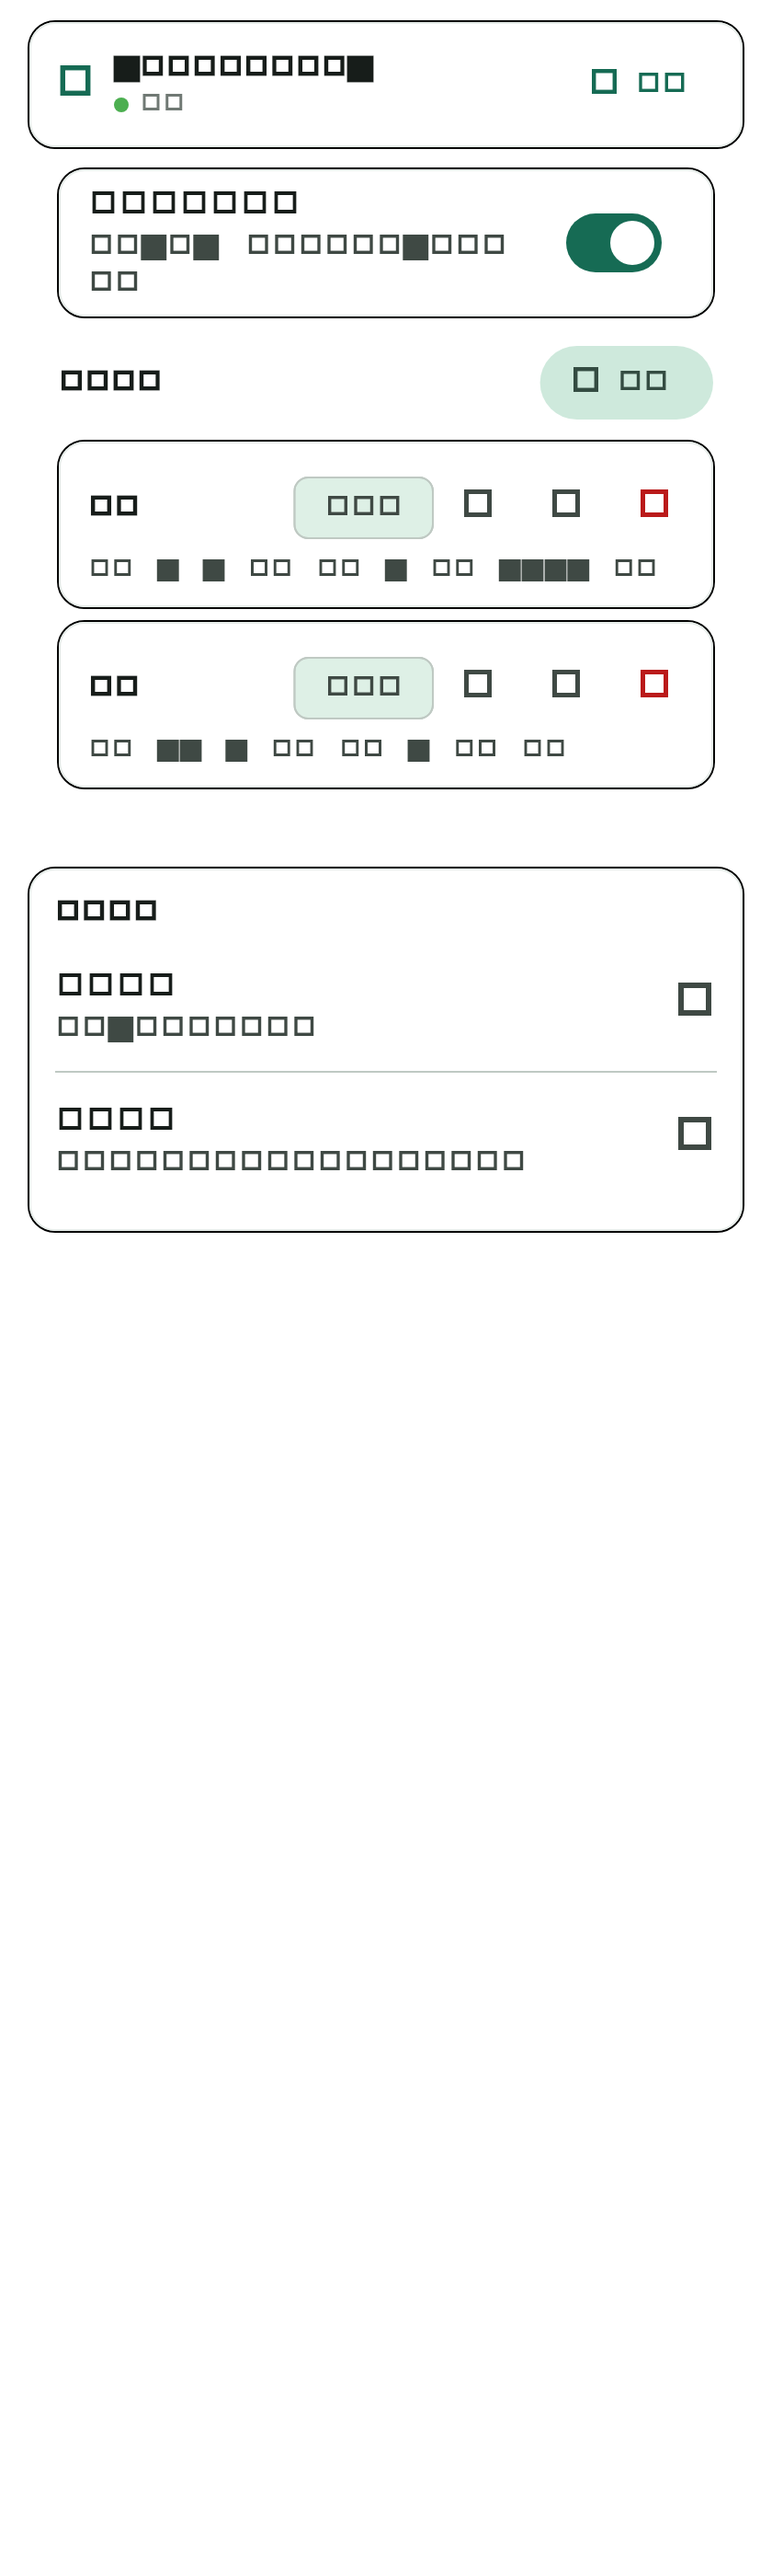
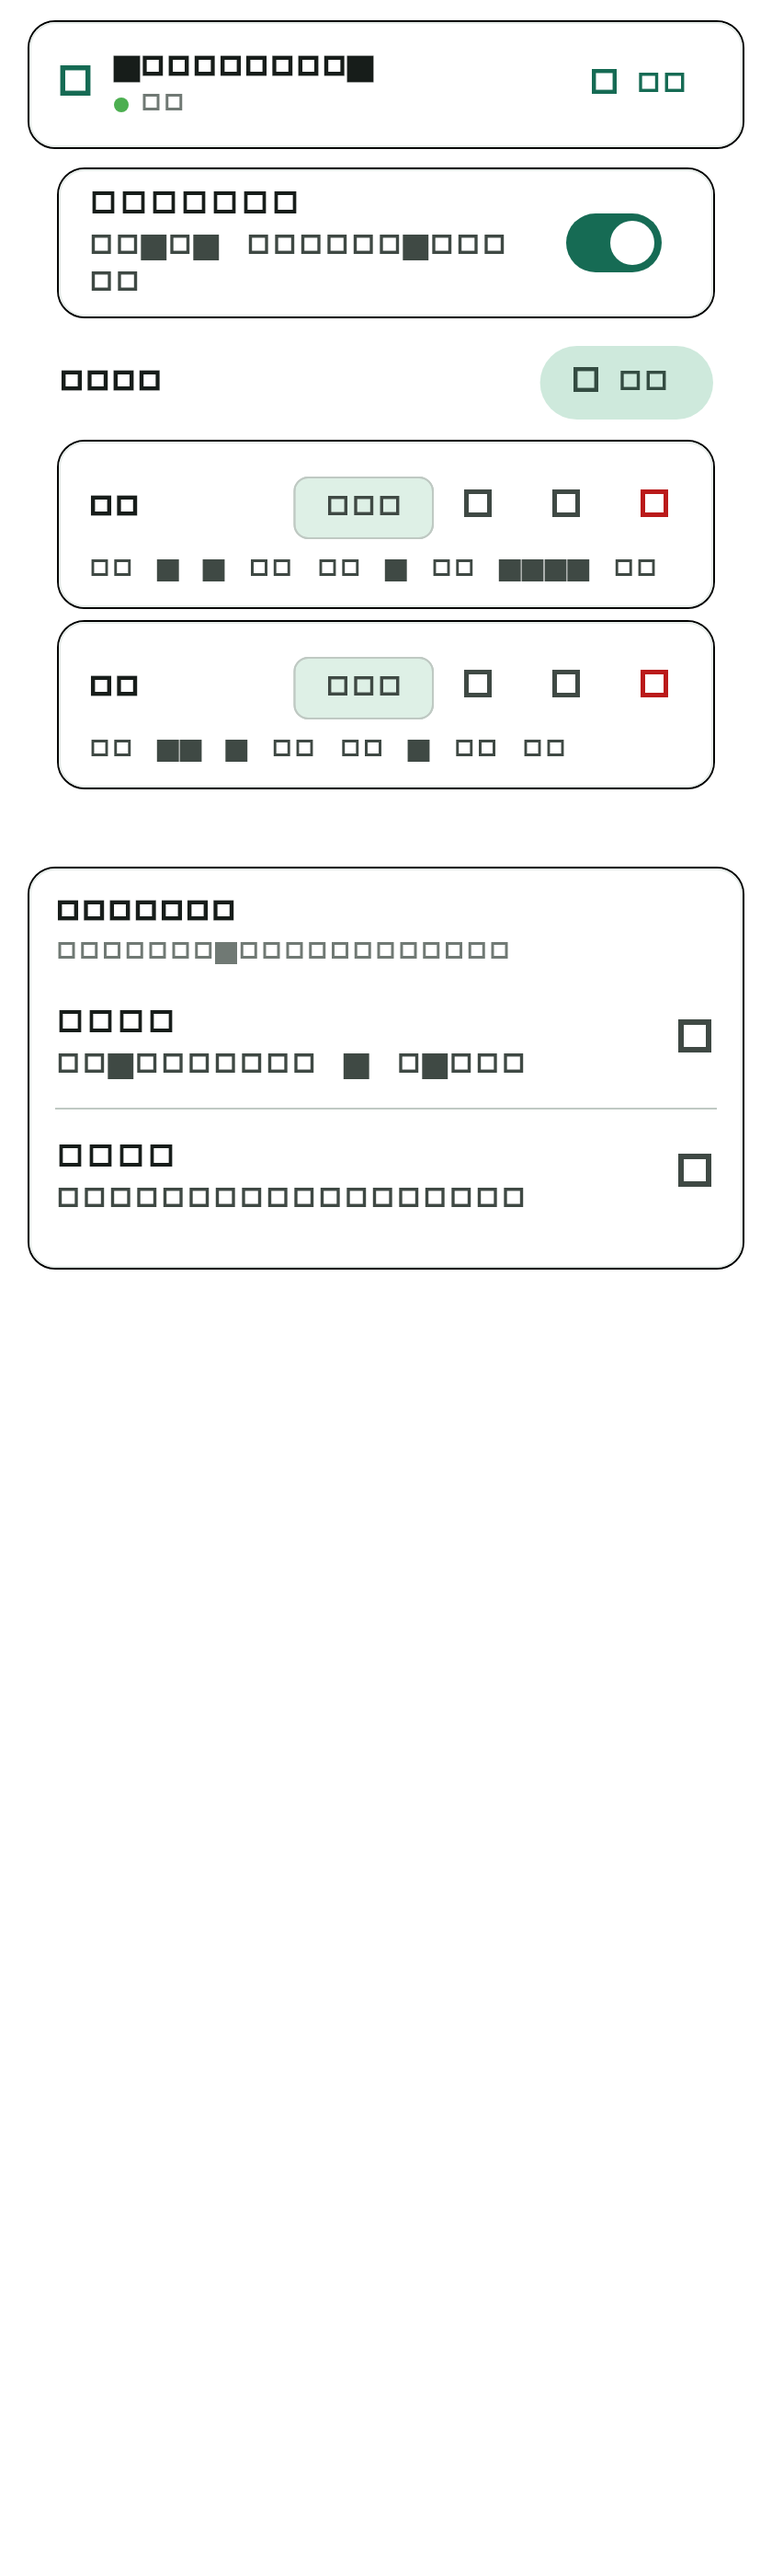
fix: 家庭三态收口 - 未分配时不显示卡片，有效.env家庭名后台失败仍fallback

Changed region(s): [[0.031, 0.3418, 0.681, 0.4971], [0.8667, 0.3729, 0.9286, 0.4661], [0.9286, 0.4661, 0.9595, 0.4971]]

diff --git a/pscreen_home/test/home_bloc_test.dart b/pscreen_home/test/home_bloc_test.dart
@@ -2138,68 +2138,143 @@ void main() {
     });
   });
 
-  group('HomeState 房间条回退（家庭名与区域前缀不一致）', () {
-    // HA 区域名无「家庭 」前缀（如「卧室 / 客厅」），家庭名解析为空串。
-    final HaRegistry noPrefixRegistry = HaRegistry(
+  group('HomeState 家庭三态（全部 / 已分配 / 未分配）', () {
+    // 带家庭前缀的区域：金科1204 有客厅+卧室，棠德304 有卧室。
+    final HaRegistry prefixedRegistry = HaRegistry(
       areas: <HaArea>[
-        const HaArea(areaId: 'bedroom', name: '卧室'),
-        const HaArea(areaId: 'living', name: '客厅'),
+        const HaArea(areaId: 'jk_kt', name: '金科1204 客厅'),
+        const HaArea(areaId: 'jk_ws', name: '金科1204 卧室'),
+        const HaArea(areaId: 'td_ws', name: '棠德304 卧室'),
       ],
       areaIdByEntity: <String, String>{
-        'light.bed': 'bedroom',
-        'light.living': 'living',
+        'light.jk_kt': 'jk_kt',
+        'light.jk_ws': 'jk_ws',
+        'light.td_ws': 'td_ws',
       },
     );
-    final Map<String, HaEntityStateModel> twoEntities = <String, HaEntityStateModel>{
-      'light.bed': _entity('light.bed', 'on'),
-      'light.living': _entity('light.living', 'on'),
+    final Map<String, HaEntityStateModel> threeEntities =
+        <String, HaEntityStateModel>{
+      'light.jk_kt': _entity('light.jk_kt', 'on'),
+      'light.jk_ws': _entity('light.jk_ws', 'on'),
+      'light.td_ws': _entity('light.td_ws', 'on'),
     };
 
-    test('白名单是与区域前缀不匹配的单个家庭名时，房间条回退显示全部房间', () {
+    // ---- 态一：全部家庭（allowedHomes 为空）----
+    test('全部家庭：家庭条、房间条、卡片都显示所有数据', () {
       final HomeState state = HomeState.initial().copyWith(
-        registry: noPrefixRegistry,
-        entities: twoEntities,
-        // 模拟 .env 里误把说明文字当家庭名，或后台只配了家庭但区域无前缀。
+        registry: prefixedRegistry,
+        entities: threeEntities,
+        allowedHomes: const <String>[],
+      );
+      expect(state.isHomeUnassigned, isFalse);
+      expect(state.availableHomes, <String>['金科1204', '棠德304']);
+      expect(state.visibleAreas, hasLength(3));
+      expect(state.deviceGroups, hasLength(3));
+    });
+
+    // ---- 态二：已分配（白名单在 HA 里匹配到家庭）----
+    test('已分配单家庭：隐藏家庭条但保留房间条，只显示该家庭卡片', () {
+      final HomeState state = HomeState.initial().copyWith(
+        registry: prefixedRegistry,
+        entities: threeEntities,
+        allowedHomes: const <String>['金科1204'],
+        selectedHomeName: '金科1204',
+      );
+      expect(state.isHomeUnassigned, isFalse);
+      expect(state.effectiveHomeName, '金科1204');
+      // 房间条：只包含该家庭的房间（用户核心诉求：单家庭也要能切房间）。
+      expect(state.visibleAreas.map((HaArea a) => a.areaId),
+          <String>['jk_kt', 'jk_ws']);
+      // 卡片：只显示该家庭的 2 张，棠德304 的被过滤。
+      expect(state.deviceGroups, hasLength(2));
+    });
+
+    test('已分配多家庭白名单：只显示白名单内家庭', () {
+      final HomeState state = HomeState.initial().copyWith(
+        registry: prefixedRegistry,
+        entities: threeEntities,
+        allowedHomes: const <String>['棠德304'],
+      );
+      expect(state.isHomeUnassigned, isFalse);
+      expect(state.visibleAreas.map((HaArea a) => a.areaId), <String>['td_ws']);
+      expect(state.deviceGroups, hasLength(1));
+    });
+
+    // ---- 态三：未分配（白名单非空，但 HA 里找不到任何匹配家庭）----
+    test('未分配（.env 占位文案）：卡片、房间条全空，isHomeUnassigned 为真', () {
+      final HomeState state = HomeState.initial().copyWith(
+        registry: prefixedRegistry,
+        entities: threeEntities,
         allowedHomes: const <String>['不默认显示任何家庭需要要后台设置'],
       );
-
-      expect(state.availableHomes, isEmpty,
-          reason: '区域名无空格前缀 → homeName 全为空');
-      expect(state.effectiveHomeName, isEmpty);
-      // 修复点：过滤无结果不应让房间条消失，而应回退全部房间。
-      expect(state.visibleAreas.map((HaArea a) => a.areaId),
-          <String>['bedroom', 'living']);
+      expect(state.isHomeUnassigned, isTrue);
+      expect(state.availableHomes, isEmpty);
+      expect(state.visibleAreas, isEmpty);
+      expect(state.deviceGroups, isEmpty);
+      expect(state.quickControls, isEmpty);
     });
 
-    test('白名单完全不匹配任何区域时房间条仍可用', () {
-      final HomeState state = HomeState.initial().copyWith(
-        registry: noPrefixRegistry,
-        entities: twoEntities,
-        allowedHomes: const <String>['不存在的家'],
-      );
-      expect(state.visibleAreas, hasLength(2));
+    test('未分配（none / 不存在的家庭名）：同样判定为未分配', () {
+      for (final String bad in <String>['none', '不存在的家']) {
+        final HomeState state = HomeState.initial().copyWith(
+          registry: prefixedRegistry,
+          entities: threeEntities,
+          allowedHomes: <String>[bad],
+        );
+        expect(state.isHomeUnassigned, isTrue, reason: '$bad 应判未分配');
+        expect(state.deviceGroups, isEmpty);
+      }
     });
 
-    test('白名单匹配到真实家庭时仍按该家庭过滤（回退不影响正常场景）', () {
-      final HaRegistry withPrefix = HaRegistry(
-        areas: <HaArea>[
-          const HaArea(areaId: 'a1', name: '金科1204 客厅'),
-          const HaArea(areaId: 'a2', name: '棠德304 卧室'),
-        ],
-        areaIdByEntity: <String, String>{
-          'light.a1': 'a1',
-          'light.a2': 'a2',
-        },
+    test('未分配多白名单全部无效才算未分配；有一个有效则不隐藏', () {
+      final HomeState allBad = HomeState.initial().copyWith(
+        registry: prefixedRegistry,
+        entities: threeEntities,
+        allowedHomes: const <String>['a', 'b'],
       );
+      expect(allBad.isHomeUnassigned, isTrue);
+
+      final HomeState oneGood = HomeState.initial().copyWith(
+        registry: prefixedRegistry,
+        entities: threeEntities,
+        allowedHomes: const <String>['a', '金科1204'],
+      );
+      expect(oneGood.isHomeUnassigned, isFalse);
+      expect(oneGood.deviceGroups, hasLength(2));
+    });
+
+    test('注册表尚未加载时不判未分配（防止加载中闪空白）', () {
       final HomeState state = HomeState.initial().copyWith(
-        registry: withPrefix,
-        entities: <String, HaEntityStateModel>{
-          'light.a1': _entity('light.a1', 'on'),
-          'light.a2': _entity('light.a2', 'on'),
-        },
+        registry: HaRegistry.empty, // areas 为空 = 尚未加载
+        entities: threeEntities,
         allowedHomes: const <String>['金科1204'],
       );
-      expect(state.visibleAreas.map((HaArea a) => a.areaId), <String>['a1']);
+      expect(state.isHomeUnassigned, isFalse,
+          reason: '注册表空时不能断定家庭不存在');
+    });
+
+    test('区域名无家庭前缀 + 配了家庭名 → 视为未分配（HA 无该家庭）', () {
+      final HaRegistry noPrefix = HaRegistry(
+        areas: <HaArea>[
+          const HaArea(areaId: 'bedroom', name: '卧室'),
+          const HaArea(areaId: 'living', name: '客厅'),
+        ],
+        areaIdByEntity: <String, String>{
+          'light.bed': 'bedroom',
+          'light.living': 'living',
+        },
+      );
+      final HomeState state = HomeState.initial().copyWith(
+        registry: noPrefix,
+        entities: <String, HaEntityStateModel>{
+          'light.bed': _entity('light.bed', 'on'),
+          'light.living': _entity('light.living', 'on'),
+        },
+        allowedHomes: const <String>['某家庭'],
+      );
+      // HA 区域名全无前缀 → 注册表里没有任何家庭 → 配置指向的家庭不存在。
+      expect(state.isHomeUnassigned, isTrue);
+      expect(state.deviceGroups, isEmpty);
     });
   });
 }

diff --git a/pscreen_home/lib/features/home/application/bloc/home_state.dart b/pscreen_home/lib/features/home/application/bloc/home_state.dart
@@ -158,14 +158,38 @@ class HomeState {
     ];
   }
 
+  /// 是否处于「未分配」状态：.env / 后台指定了家庭白名单，但这些家庭名在
+  /// HA 注册表里一个都找不到。
+  ///
+  /// 典型场景：.env 残留了「不默认显示任何家庭需要要后台设置」这类占位文案，
+  /// 或填了 none / 不存在的家庭名。此时按约定不显示任何家庭的卡片，
+  /// 等待后台下发有效的家庭配置（后台一旦下发 homes，allowedHomes 会被覆盖，
+  /// 本 getter 随之变为 false）。
+  ///
+  /// 判定用完整注册表 [registry.areas] 而非 [availableAreas]，避免把「家庭存在
+  /// 但暂时没有实体」误判为未分配；注册表尚未加载（空）时也不判定，防止加载
+  /// 过程中的瞬时空集把页面闪成空白。
+  bool get isHomeUnassigned {
+    if (allowedHomes.isEmpty) return false; // 「全部家庭」不是未分配
+    if (registry.areas.isEmpty) return false; // 注册表未加载，暂不判定
+    final Set<String> homesInRegistry = <String>{
+      for (final HaArea area in registry.areas)
+        if (area.homeName.isNotEmpty) area.homeName,
+    };
+    return !allowedHomes.any(homesInRegistry.contains);
+  }
+
   /// 当前应展示的房间列表（受家庭筛选）。
   ///
   /// 家庭白名单与 HA 区域名里的家庭前缀可能不一致：例如后台只配了家庭、
-  /// 但区域名是「卧室 / 客厅」这种没有「家庭 」前缀的名字，或 .env 残留了
-  /// 无效家庭名。此时按家庭过滤会得到空列表，导致顶部房间切换条整个消失。
-  /// 为保证「即使只有一个家庭，也能快速切换房间卡片」，过滤无结果时回退到
-  /// 全部可用房间，房间条始终可用（网格由 _scopeAreaIds 独立控制，不受影响）。
+  /// 但区域名是「卧室 / 客厅」这种没有「家庭 」前缀的名字。此时按家庭过滤
+  /// 会得不到结果，为保证「即使只有一个家庭，也能快速切换房间卡片」，
+  /// 过滤无结果时回退到全部可用房间（网格由 _scopeAreaIds 独立控制）。
+  ///
+  /// 唯一例外是 [isHomeUnassigned]：配置指向的家庭在 HA 里根本不存在时，
+  /// 房间条也一并隐藏，避免给出一个切了也没卡片的空壳筛选器。
   List<HaArea> get visibleAreas {
+    if (isHomeUnassigned) return const <HaArea>[];
     final String home = effectiveHomeName;
     if (home.isNotEmpty) {
       final List<HaArea> scoped = availableAreas
@@ -210,7 +234,12 @@ class HomeState {
   }
 
   /// 家庭 / 房间筛选后的区域 id 集合；空集合表示不限制。
+  ///
+  /// 未分配时返回一个不可能匹配到任何实体的哨兵集合，让 [_filteredEntities]
+  /// / [_filteredSwitchable] 都筛不出卡片（网格显示空态），而不是当成「不限制」
+  /// 把全部家庭卡片都放出来。
   Set<String> get _scopeAreaIds {
+    if (isHomeUnassigned) return const <String>{'__unassigned_no_match__'};
     final String home = effectiveHomeName;
     if (home.isNotEmpty) {
       return <String>{

diff --git a/pscreen_home/lib/features/home/presentation/pages/home_controll_board.dart b/pscreen_home/lib/features/home/presentation/pages/home_controll_board.dart
@@ -1124,6 +1124,29 @@ class _ControlGridState extends State<_ControlGrid> {
 
         final List<HaDeviceGroup> groups = state.deviceGroups;
         if (groups.isEmpty) {
+          // 家庭白名单配了但 HA 里找不到对应家庭（.env 占位文案 / none /
+          // 不存在的家庭名）：给出明确提示，等待后台下发有效家庭配置。
+          if (state.isHomeUnassigned) {
+            return const Center(
+              child: Column(
+                mainAxisSize: MainAxisSize.min,
+                children: <Widget>[
+                  Icon(Icons.house_outlined, size: 48, color: Colors.grey),
+                  SizedBox(height: 16),
+                  Text('等待后台分配家庭'),
+                  SizedBox(height: 8),
+                  Padding(
+                    padding: EdgeInsets.symmetric(horizontal: 32),
+                    child: Text(
+                      '当前未指定有效家庭，请在后台为本机分配家庭后重试',
+                      textAlign: TextAlign.center,
+                      style: TextStyle(fontSize: 12, color: Colors.grey),
+                    ),
+                  ),
+                ],
+              ),
+            );
+          }
           return const Center(
             child: Column(
               mainAxisSize: MainAxisSize.min,

diff --git a/.workbuddy/memory/2026-11-20.md b/.workbuddy/memory/2026-11-20.md
@@ -128,3 +128,17 @@ relay 的 HIDE_TAIL=4 原本是为「mpv 直连 relay」设计的抖动吸收垫
 - **装机验证通过**（e724dd69）：`flutter build apk --debug --flavor phone --dart-define=APP_FLAVOR=phone`（2m7s）→ arm64-v8a-phone-debug md5 `13435e54…`，adb install -r Success，versionName=1.0.6-phone/versionCode=22 与 pubspec 一致 → 启动截图：家庭条（薯仔4号的家/金科1204/棠德304）+ 房间条（全部/…客厅 9/…卧室 3）全部出现，设备卡片正常。
 - 遗留小问题（数据命名，非本次）：部分房间标签显示「薯仔4号的家 薯仔4号的家」重复，因 HA 区域名本身如此，不影响功能。
 - 排查手法：Flutter 界面 uiautomator dump 抓不到 text（用 content-desc 可得卡片信息）；flutter 业务日志用 `adb logcat -d | grep flutter` 过滤；家庭白名单链路 `resolveMachineConfig`(admin.js:1724) → config 帧 → `device_reporter._applyConfig` → `HaConfig.applyServerConfig` → `visibleHomes` → HomeState。
+
+## 家庭三态收口（16:34~17:02，改前先拉取合并）
+- 用户澄清「未分配」定义 = **.env 配了不存在的家庭名/none 等占位值**（不是后台没下发）；核心诉求：.env 配有效家庭名时，即使后台访问失败也要能通过 HA 显示。
+- **改前先合并**（用户明确要求防冲突）：本地先 commit `1da869a`（录制遥控命令+状态上报+家庭房间条回退修复），patch 备份 `/tmp/pk_local_backup_20261120_164900.patch`，`git merge origin/main` 无冲突（远端 oled-6.2 远程配置下发 d130ecc + oled-6.3 秒级时间戳 d604366，都动 admin.js 但与录制命令改动自动合并），合并提交 5b10fc2。本地 ahead 2。
+- **推翻上一轮的粗暴回退**：上一轮「过滤无结果回退全部房间」让「未分配」反而全显示，与用户「默认不显示、只由后台分配」本意相反。本轮改为**基于数据匹配的三态判定**：
+  - `home_state.dart` 新增 `isHomeUnassigned` getter：`allowedHomes 非空 && registry.areas 里没有任何 area.homeName ∈ allowedHomes`（注册表空时不判定，防加载中闪空白）。
+  - `_scopeAreaIds`：未分配时返回哨兵集合 `{'__unassigned_no_match__'}`（空集语义=不限制会全显示，故用不可能匹配的 id 让卡片全空）。
+  - `visibleAreas`：未分配时返回空（房间条隐藏）；其余保留「过滤无结果回退全部」。
+  - `home_controll_board.dart` 网格空态：未分配时显示「等待后台分配家庭」+ 提示文案，替代「没有找到实体」。
+  - `.env`：`HONE_MANE=` → `HONE_MANE=none`（显式未分配标记；注释写明三态取值）。.env 是 asset 会打进 APK。
+- **三态结果**：全部（allowedHomes=[]）→家庭条+房间条+全部卡片；已分配（白名单 HA 有匹配）→隐藏家庭条/保留房间条/该家庭卡片（后台失败也 fallback）；未分配（白名单 HA 无匹配）→全空+提示。后台下发 homes 覆盖 .env。
+- **测试**：重写 `home_bloc_test.dart` 末尾 group 为「家庭三态」，8 个用例（全部/已分配单+多/未分配占位文案+none+多白名单/注册表未加载不判定/无前缀区域）。home_bloc_test 67/67 通过，analyze No issues。
+- **既有失败（与本改动无关）**：`flutter test` 全量 442 个中 5 个失败，都在 `parental_share_page_test.dart`/`parental_tabs_render_test.dart`（bed:c10 档案坐标 null），是合并进来的既有问题，不在本次范围。
+- **待装机验证**：arm64-v8a-phone-debug 已构建（Nov 20 17:01，md5 `bd8ffe8a59ca2184e12762a69167fe52`，version 1.0.6+22）。但 USB 设备当前 adb 检测不到（用户可能拔掉/休眠），装机截图验证待设备重连后进行。预期：进入「等待后台分配家庭」空态（因 .env=none 且该设备后台 source=none）。
